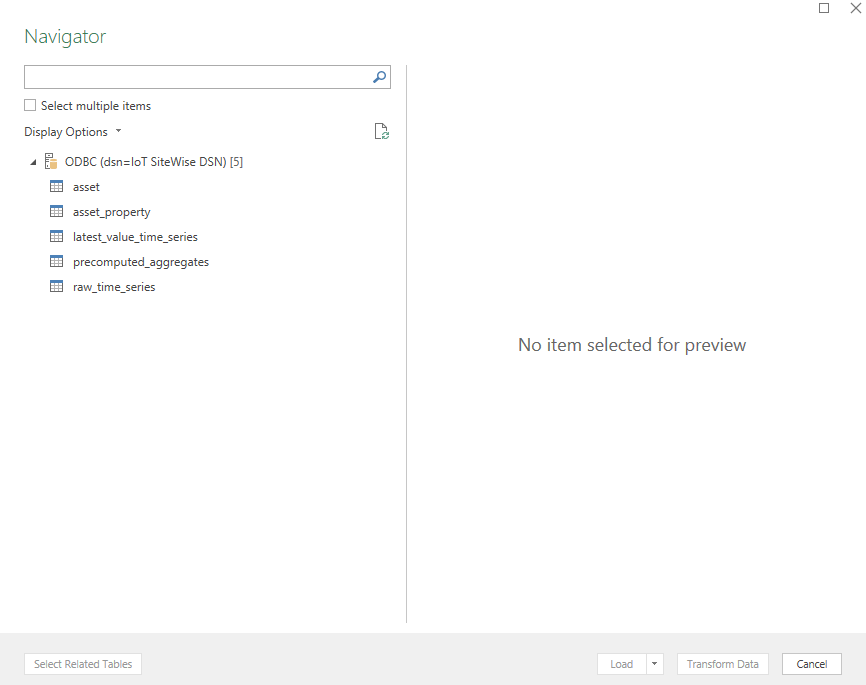
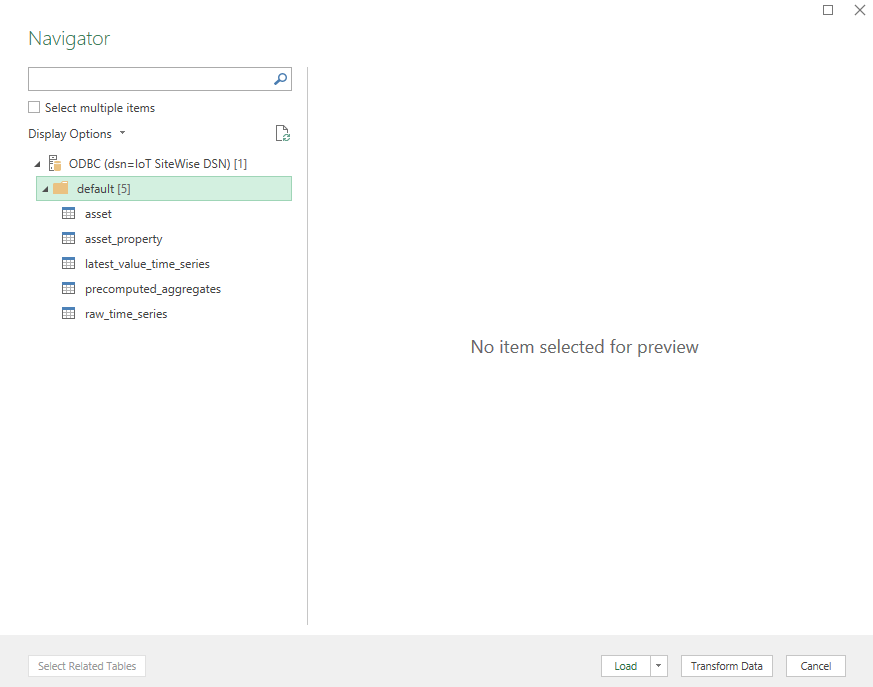
fix: Update default PowerBI and Excel queries

diff --git a/src/odbc/src/query/table_metadata_query.cpp b/src/odbc/src/query/table_metadata_query.cpp
@@ -467,8 +467,13 @@ SqlResult::Type TableMetadataQuery::getTables() {
           meta.back().SetTableName(foundTableName);
           meta.back().SetTableType("TABLE");
           // Explicitly set catalog, schema, and remarks to NULL for Excel compatibility
-          meta.back().SetCatalogNameNull();
-          meta.back().SetSchemaNameNull();
+          if (DATABASE_AS_SCHEMA) {
+            meta.back().SetCatalogNameNull();
+            meta.back().SetSchemaName("default");
+          } else {
+            meta.back().SetCatalogName("default");
+            meta.back().SetSchemaNameNull();
+          }
           meta.back().SetRemarksNull();
           LOG_DEBUG_MSG("getTables: Found matched table for " << table.get());
         }
@@ -476,9 +481,13 @@ SqlResult::Type TableMetadataQuery::getTables() {
           meta.emplace_back(TableMeta());
           meta.back().SetTableName(tableNames.at(j));
           meta.back().SetTableType("TABLE");
-          // Explicitly set catalog, schema, and remarks to NULL for Excel compatibility
-          meta.back().SetCatalogNameNull();
-          meta.back().SetSchemaNameNull();
+          if (DATABASE_AS_SCHEMA) {
+            meta.back().SetCatalogNameNull();
+            meta.back().SetSchemaName("default");
+          } else {
+            meta.back().SetCatalogName("default");
+            meta.back().SetSchemaNameNull();
+          }
           meta.back().SetRemarksNull();
           LOG_DEBUG_MSG("getTables: Added table " << tableNames.at(j) << " to meta");
       } else {
@@ -517,8 +526,7 @@ SqlResult::Type TableMetadataQuery::getMatchedTables(
     tablePatternLowercase.resize(tablePattern.size());
     std::transform(tablePattern.begin(), tablePattern.end(),
       tablePatternLowercase.begin(), ::tolower);
-    sql = "SELECT table_name, column_name, data_type FROM system.columns WHERE table_name LIKE '%"
-      + tablePatternLowercase + "%'";
+    sql = "SELECT table_name FROM system.tables WHERE table_name LIKE \'" + tablePatternLowercase + "\'";
   }
   LOG_DEBUG_MSG("sql is " << sql);
 

diff --git a/src/tests/integration-test/src/api_robustness_test.cpp b/src/tests/integration-test/src/api_robustness_test.cpp
@@ -1331,4 +1331,34 @@ BOOST_AUTO_TEST_CASE(TestRowArraySizeGreaterThanOne) {
   BOOST_CHECK_EQUAL(0.0, fieldDouble[2]);
 }
 
+BOOST_AUTO_TEST_CASE(TestSQLDriverRemoveEmptyDatabase) {
+  // There are no checks because we do not really care what is the result of
+  // these calls as long as they do not cause segmentation fault.
+  ConnectToSW();
+
+  std::vector< SQLWCHAR > sql = MakeSqlBuffer("SELECT \"asset_id\" FROM \"default\".\"asset\"");
+
+  // Everything is ok.
+  SQLRETURN ret = SQLExecDirect(stmt, sql.data(), SQL_NTS);
+
+  ODBC_FAIL_ON_ERROR(ret, SQL_HANDLE_STMT, stmt);
+
+  SQLCloseCursor(stmt);
+
+  // Value length is null.
+  SQLExecDirect(stmt, sql.data(), 0);
+
+  SQLCloseCursor(stmt);
+
+  // Value is null.
+  SQLExecDirect(stmt, 0, SQL_NTS);
+
+  SQLCloseCursor(stmt);
+
+  // All nulls.
+  SQLExecDirect(stmt, 0, 0);
+
+  SQLCloseCursor(stmt);
+}
+
 BOOST_AUTO_TEST_SUITE_END()

diff --git a/src/odbc/src/query/data_query.cpp b/src/odbc/src/query/data_query.cpp
@@ -327,7 +327,7 @@ SqlResult::Type DataQuery::MakeRequestExecute() {
   // This function is called by Execute() and does the actual querying
   LOG_DEBUG_MSG("MakeRequestExecute is called");
 
-  LOG_INFO_MSG("sql query: " << sql_);
+  LOG_INFO_MSG("sql query: " <<sql_);
   request_.SetQueryStatement(sql_);
   if (connection_.GetConfiguration().IsMaxRowPerPageSet()) {
     LOG_DEBUG_MSG("MaxRowPerPage is set to "

diff --git a/docs/markdown/setup/microsoft-excel.md b/docs/markdown/setup/microsoft-excel.md
@@ -37,9 +37,10 @@ Windows ODBC Data Source Administrator.
 
    Once you are done, click `Connect`.
 
-6. You're now successfully connected on Excel and will see the possible tables that you can query from. Note that the
-   Preview function doesn't work as
-   we are limited by Excel's behavior.
+6. You're now successfully connected on Excel and will see the possible tables that you can query from. 
+
+   * Caution: clicking on a preview will execute a full table scan with all column information. 
+   This request may time out depending on how much data is in the account. 
 
 ![Excel Navigator](../images/windows-excel-navigator-page.png)
 
@@ -48,6 +49,14 @@ Windows ODBC Data Source Administrator.
 ![Excel Advanced Options](../images/windows-excel-query-advanced-option.png)
 
 ## Trouble-shooting Guide
+
+I am experience data-loading issues with Excel preview where the displayed preview data is not updated.
+
+Excel caches preview data, so if there's any changes to the data shape or data itself, the preview may
+not properly reflect the updates. To update the preview, click on the refresh button on the top right of
+the preview page:
+
+![Excel Refresh Preview](../images/windows-excel-refresh-preview.png)
 
 I am experiencing data-loading issues with Excel after version update or updating environment variable [
 `DATABASE_AS_SCHEMA`](developer-guide.md#database-reporting). For example, Excel is not prefixing the database name to

diff --git a/docs/markdown/setup/connection-string.md b/docs/markdown/setup/connection-string.md
@@ -174,13 +174,13 @@ Driver={Amazon IoT SiteWise ODBC Driver};Auth=aad;Region=us-east-1;idPUsername=m
 #### Connecting With Specified Endpoint with Log Level Warning
 
 ```
-Driver={Amazon IoT SiteWise ODBC Driver};Auth=IAM;AccessKeyId=myAccessKeyId;secretKey=mySecretKey;EndpointOverride=us.east.1.iotsitewise.amazonaws.com;Region=us-east-1;LogLevel=2;
+Driver={Amazon IoT SiteWise ODBC Driver};Auth=IAM;AccessKeyId=myAccessKeyId;secretKey=mySecretKey;EndpointOverride=https://iotsitewise.us-east-1.amazonaws.com;Region=us-east-1;LogLevel=2;
 ```
 
 #### Notes
 
 1. Authentication type (Auth) is AWS IAM credentials.
-2. Endpoint is `us.east.1.iotsitewise.amazonaws.com`.
+2. Endpoint is `https://iotsitewise.us-east-1.amazonaws.com`.
 3. Region is `us-east-1`.
 4. Log lever is set to 2 which is `Warning`.
 
